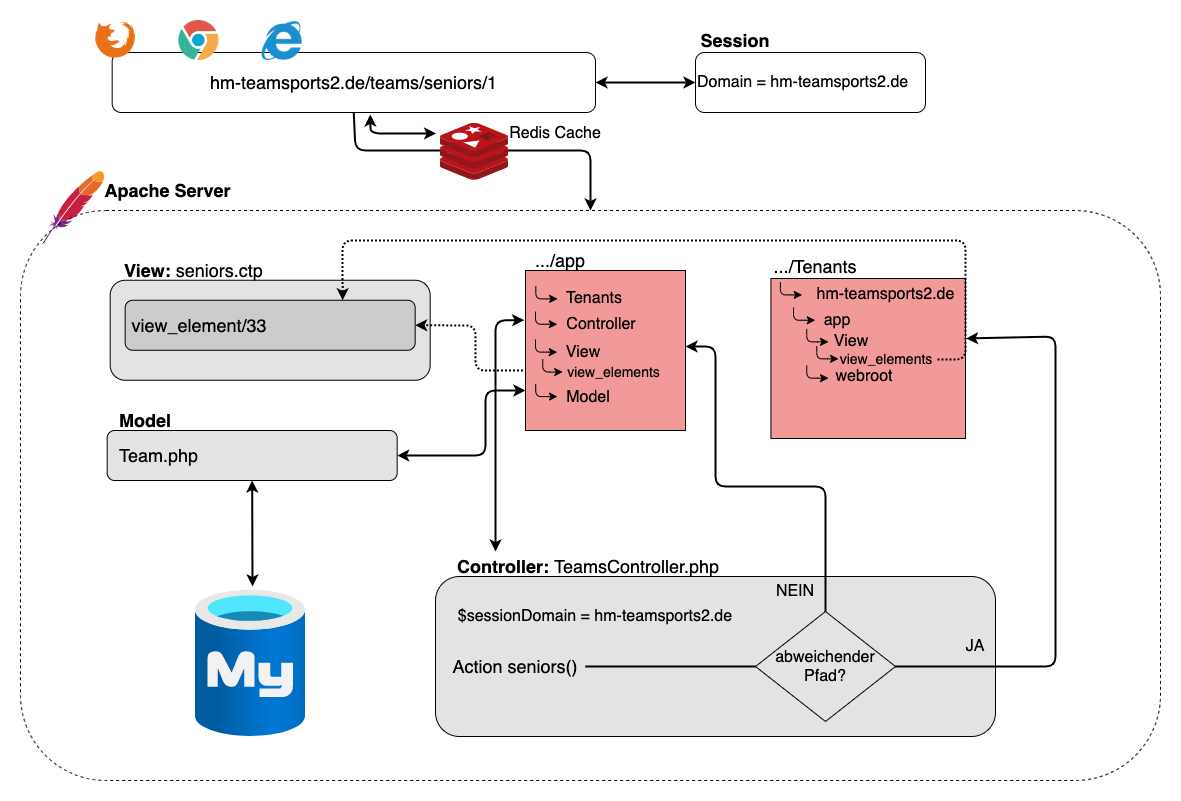
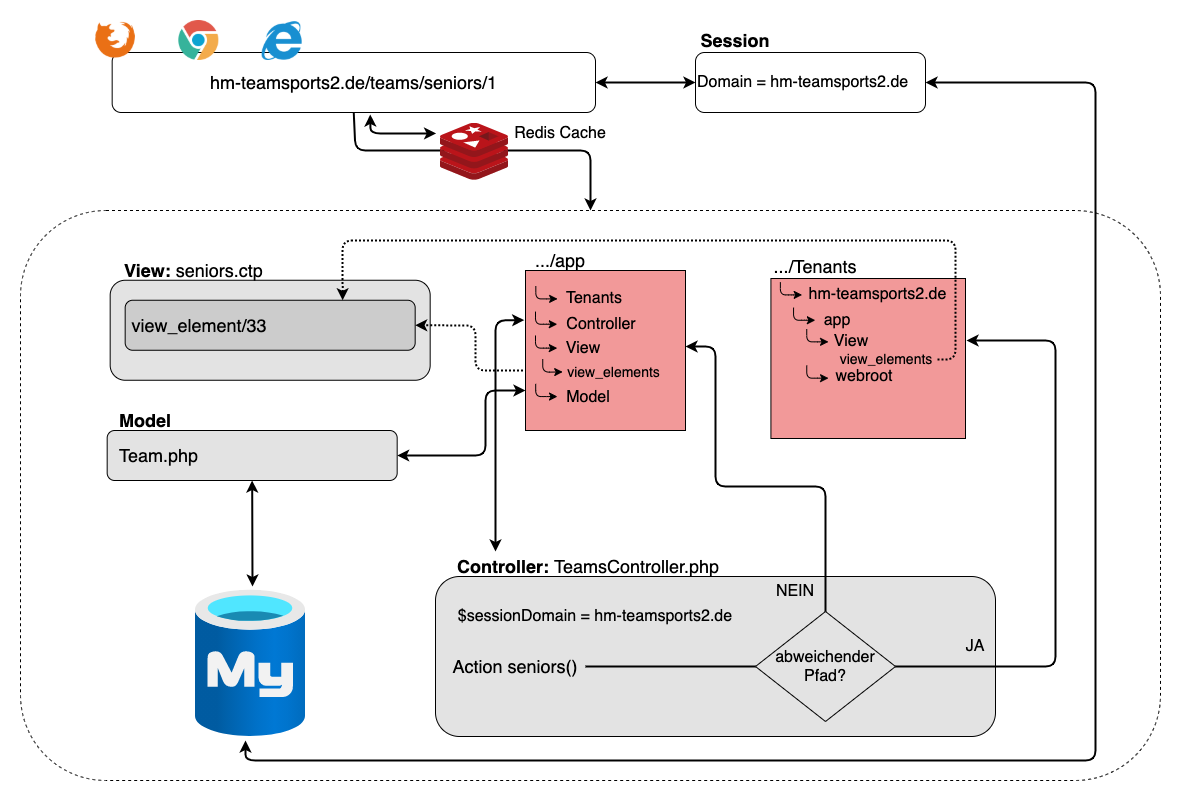
corrections

diff --git a/source/10_quantitative_analyse.md b/source/10_quantitative_analyse.md
@@ -78,7 +78,7 @@ Mit der aktuellen Architektur setzt sich bei allen Produktivservern der Haupttei
 ![](source/figures/Queries-diagram_Live1.png)
 Abbildung 14: Queries gegen die Datenbank auf dem Produktiv 1 Server
 
-Einzig der Testserver weist einen vergleichsweise geringeren Prozentsatz bei den SELECT Abfragen auf. Die 21 Prozent an SET OPTION Anfragen lassen sich mit der Tatsache erklären, dass beim Generieren einer neuen Seite die Datenbank für die jeweilige Instanz neu erstellt wird und somit Optionen, wie das Passwort gesetzt werden müssen. Zudem passiert es des öfteren, dass Nutzer ein neue Seite erstellen, dieser aber schon nach kurzer Zeit nicht mehr aktiv nutzen. 
+Einzig der Testserver weist einen vergleichsweise geringeren Prozentsatz bei den SELECT Abfragen auf. Die 21 Prozent an SET OPTION Anfragen lassen sich mit der Tatsache erklären, dass beim Generieren einer neuen Seite die Datenbank für die jeweilige Instanz neu erstellt wird und somit Optionen, wie das Passwort gesetzt werden müssen [@OracleCorporation2021]. Zudem passiert es des öfteren, dass Nutzer ein neue Seite erstellen, dieser aber schon nach kurzer Zeit nicht mehr aktiv nutzen. 
 
 ![](source/figures/Queries-diagram_Generator.png)
 Abbildung 15: Queries gegen die Datenbank auf dem Testserver
@@ -99,8 +99,8 @@ Tabelle 6: SELECT Abfragen aller Server in Stück
 
 Der hohe Anteil der SELECT Abfragen im Vergleich zu anderen Abfragen ist in diesem Fall nicht verwunderlich, da in TeamSports2 hautpsächlich Daten aus bestimmten Tabellen angefragt und keine komplexen Operationen vorgenommen werden müssen. 
 Mit der neuen Multi-Tenant Architektur kann besagter Anteil nicht reduziert werden; da sowohl an den Datenbankabfragen in den Controllern, als auch an der Anzahl der Tabellen keine Änderungen vorgesehen sind. Hierfür müsste zum einen das Datenbankmodell von Grund auf überdacht werden um gegebenenfalls überflüssige Tabellen zu entfernen und die Datenstruktur für die Abfragen zu verbessern. Zum anderen wäre auch das Überarbeiten der Abfragen an die Datenbank in den Controllern notwendig, ob beispielsweise an Stellen überflüssigerweisen alle Daten aus einer Tabelle geladen werden, anstatt nur die benötigten.   
-Dahingegen kann mit der neuen Architektur die Anzahl der SELECT Anfragen reduziert werden. Zwar findet zu Beginn einer jeden Session ein zusätzlicher Request an die Datenbank für die Ermittlung der tenantId statt; wohingegen häufig angefragte Daten mittels Redis gecached werden und somit die Anzahl der Anfragen durch SELECT auf die Datenbank reduziert wird. Dies ist auch aufgrund der Konzentration aller Daten in einer Datenbank hilfreich um die Last auf die Datenbank bei vielen gleichzeitige Anfragen durch die Tenants zu reduzieren. Der Einsatz von Redis Cache wäre zwar auch in der jetzigen Architektur möglich, zumal CakePHP diesen untersützt. Allerdings darf hierbei nicht vergessen werden, dass ein RedisCache für jede einzelne Datenbank in einer Single-Tenant Anwendung hohe Kosten sowie Wartungs- und Implementierungsaufwände verursacht, wodurch die Performancevorteile wieder relativiert werden würden.    
-Des weiteren kann auch eine Reduzierung der Datenbankanfragen aufgrund durch Multi-Tenant leichteren horizontalen Skalierung der Datenbank. Mithilfe von Aurora Replikationen werden Kopien der Daten aus der primären Datenbank erstellt, worauf die einzelnen Tenants zugreifen können. Somit müssen die Daten bei Anfragen nicht immer neu aus der primären Datenbank geladen werden. [@AmazonWebServices2021c].
+Dahingegen kann mit der neuen Architektur die Anzahl der SELECT Anfragen reduziert werden. Zwar findet zu Beginn einer jeden Session ein zusätzlicher Request an die Datenbank für die Ermittlung der tenantId statt. Allerdings werden häufig angefragte Daten mittels Redis gecached und somit die Anzahl der Anfragen durch SELECT auf die Datenbank reduziert. Das Caching ist auch aufgrund der Konzentration aller Daten in einer Datenbank hilfreich um die Last auf die Datenbank bei vielen gleichzeitige Anfragen durch die Tenants zu reduzieren. Bereits gecachte Daten müssen somit nicht mehr von der Datenbank abgefragt werden. Der Einsatz von Redis Cache wäre zwar auch in der jetzigen Architektur möglich, zumal CakePHP diesen untersützt. Allerdings darf hierbei nicht vergessen werden, dass ein RedisCache für jede einzelne Datenbank in einer Single-Tenant Anwendung hohe Kosten sowie Wartungs- und Implementierungsaufwände verursacht, wodurch die Performancevorteile wieder relativiert werden würden.    
+Des weiteren kann auch eine Reduzierung der Datenbankanfragen aufgrund durch Multi-Tenant leichteren horizontalen Skalierung der Datenbank erwirkt werden. Beispielsweise können mithilfe von Aurora Replikationen Kopien der Daten aus der primären Datenbank erstellt werden, worauf die einzelnen Tenants zugreifen können. Somit müssen die Daten bei Anfragen nicht immer neu aus der primären Datenbank geladen werden. [@AmazonWebServices2021c].
 
 
 <!--

diff --git a/source/08_analyse_istZustand_ts.md b/source/08_analyse_istZustand_ts.md
@@ -4,12 +4,12 @@ TeamSports2 ist ein Content-Management-System für Sportvereine. Das System wurd
 
 ## Grundlegende Produktstruktur
 
-Der Verein erstellt sich über die Homepage teamsports2.de eine Testseite. Dabei gibt der Verein lediglich Kontaktdaten, die anfängliche Seitenfarbe sowie den gewünschten Seitennamen an. Daraufhin wird aus diesen Daten eine Testinstanz mit eigener zugehöriger Datenbank generiert. Die Seite enthält anfangs einige Testberichte sowie rudimentäre Inhalte, um dem Nutzer den Einstieg zu erleichtern. Ein beispielhaftes Frontend einer neu generierten Testseite ist in der nachfolgendenden Abbildung zu sehen.
+Der Verein erstellt sich über die Homepage teamsports2.de eine Testseite. Dabei gibt der Verein lediglich Kontaktdaten, die anfängliche Seitenfarbe sowie den gewünschten Seitennamen an. Daraufhin wird aus diesen Daten eine Testinstanz mit eigener zugehöriger Datenbank generiert. Ein beispielhaftes Frontend einer neu generierten Testseite ist in Abbildung vier zu sehen.
 
 ![](source/figures/TeamSports2_Frontend.png)
 Abbildung 4: Ansicht TeamSports2 Frontend
 
-Die Testseite befindet sich zu diesem Zeitpunkt unter einer Subdomain, beispielsweise hm.teamsports2.de. Über diese Subdomain sowie die während des Generierens erstellten Zugangsdaten kann der Nutzer die Seite nach seinen Wünschen bearbeiten. Mittels diese Zugangsdaten kann sich der Nutzer in das Backend seiner Instanz einloggen.
+Mit dem Erstellen der Seite werden anfangs einige Testberichte sowie rudimentäre Inhalte erstellt, um dem Nutzer den Einstieg zu erleichtern. Die Testseite befindet sich zu diesem Zeitpunkt unter einer Subdomain, beispielsweise hm.teamsports2.de. Über diese Subdomain sowie die während des Generierens erstellten Zugangsdaten kann der Nutzer die Seite nach seinen Wünschen bearbeiten. Mittels diese Zugangsdaten kann sich der Nutzer in das Backend seiner Instanz einloggen.
 
 ![](source/figures/TeamSports2_Backend.png)
 Abbildung 5: Ansicht TeamSports2 Backend
@@ -28,9 +28,7 @@ Sollte sich der Nutzer vor oder nach Ablauf der 90 Tage für den Kauf seiner Tes
 
 ## Deployment-Prozess und Infrastruktur
 
-Aktuell umfasst TeamSports2 über 160 Produktivinstanzen unter einer jeweils eigenen Domain. Diese sind auf vier Apache-Server mit einem Ubuntubetriebssystem verteilt, welche von einem externen Hostinganbieter bereitgestellt werden. Die Daten jeder Instanz liegen auf jeweils einer eigenen MySQL-Datenbank, welche wiederum auf dem Server gespeichert ist. Aktuell ist TeamSports2 somit auf einer Singel-Tenant Architektur aufgebaut, wobei jede Instanz auf ihre eigene Anwendung sowie Datenbank zugreift.
-
-Anhand nachfolgender Abbildung wird der Entwicklungs- sowie Deploymentprozess dargestellt.
+Aktuell umfasst TeamSports2 über 160 Produktivinstanzen unter einer jeweils eigenen Domain. Diese sind auf vier Apache-Server mit einem Ubuntubetriebssystem verteilt, welche von einem externen Hostinganbieter bereitgestellt werden. Die Daten jeder Instanz liegen auf jeweils einer eigenen MySQL-Datenbank, welche wiederum auf dem Server gespeichert ist. Aktuell ist TeamSports2 somit auf einer Singel-Tenant Architektur aufgebaut, wobei jede Instanz auf ihre eigene Anwendung sowie Datenbank zugreift. Anhand nachfolgender Abbildung wird der Entwicklungs- sowie Deploymentprozess dargestellt.
 
 ![](source/figures/TeamSports2_Deployment.png)
 Abbildung 6: Deployment-Prozess TeamSports2

diff --git a/source/09_praktische_umsetzung.md b/source/09_praktische_umsetzung.md
@@ -80,7 +80,7 @@ WHERE name= 'base_url' AND value= 'domain'
 ## Neue Architektur
 
 Um den Tenant, welcher auf die Anwendung zugreifen möchte, eindeutig identifizieren zu können soll die Domain in Verbindung mit der tenantId genutzt werden. Beim ersten Aufruf der Seite wird die Domain der aktuellen Session gespeichert und ein Request an die Settings Tabelle gesendet. In dem Request ist dann die URL der Seite enhalten und es wird in der Settings Tabelle nach der passenden URL gesucht. Ist diese gefunden, kann die tenantId wieder zurück an die Session geschickt werden. Während der gesamten Session bleibt die tenantId gespeichert um nicht bei jedem Neuaufruf einer View der Seite eine Datenbankabfrage senden zu müssen. 
-Über die von CakePHP bereitgestellte Session-Component können die Einstellungen für jede Session sowohl allgemein, als auch in jedem Controller extra gesetzt werden. Für jede Session wird von CakePHP eine Session-ID vergeben, worunter dann für die Gültigkeit der Session auch die tenantId zu finden ist. 
+Über die von CakePHP bereitgestellte Session-Component können die Einstellungen für jede Session sowohl allgemein, als auch in jedem Controller extra gesetzt werden. Für jede Session wird von CakePHP eine Session-ID vergeben, worunter dann für die Gültigkeit der Session auch die tenantId zu finden ist [@Ammelburger2008 173-176]. 
 Die aus der Session stammende URL soll zudem auch für die Zuordnung der richtigen View zum Controller dienen. 
 
 ![](source/figures/MultiTenantTS2.png)
